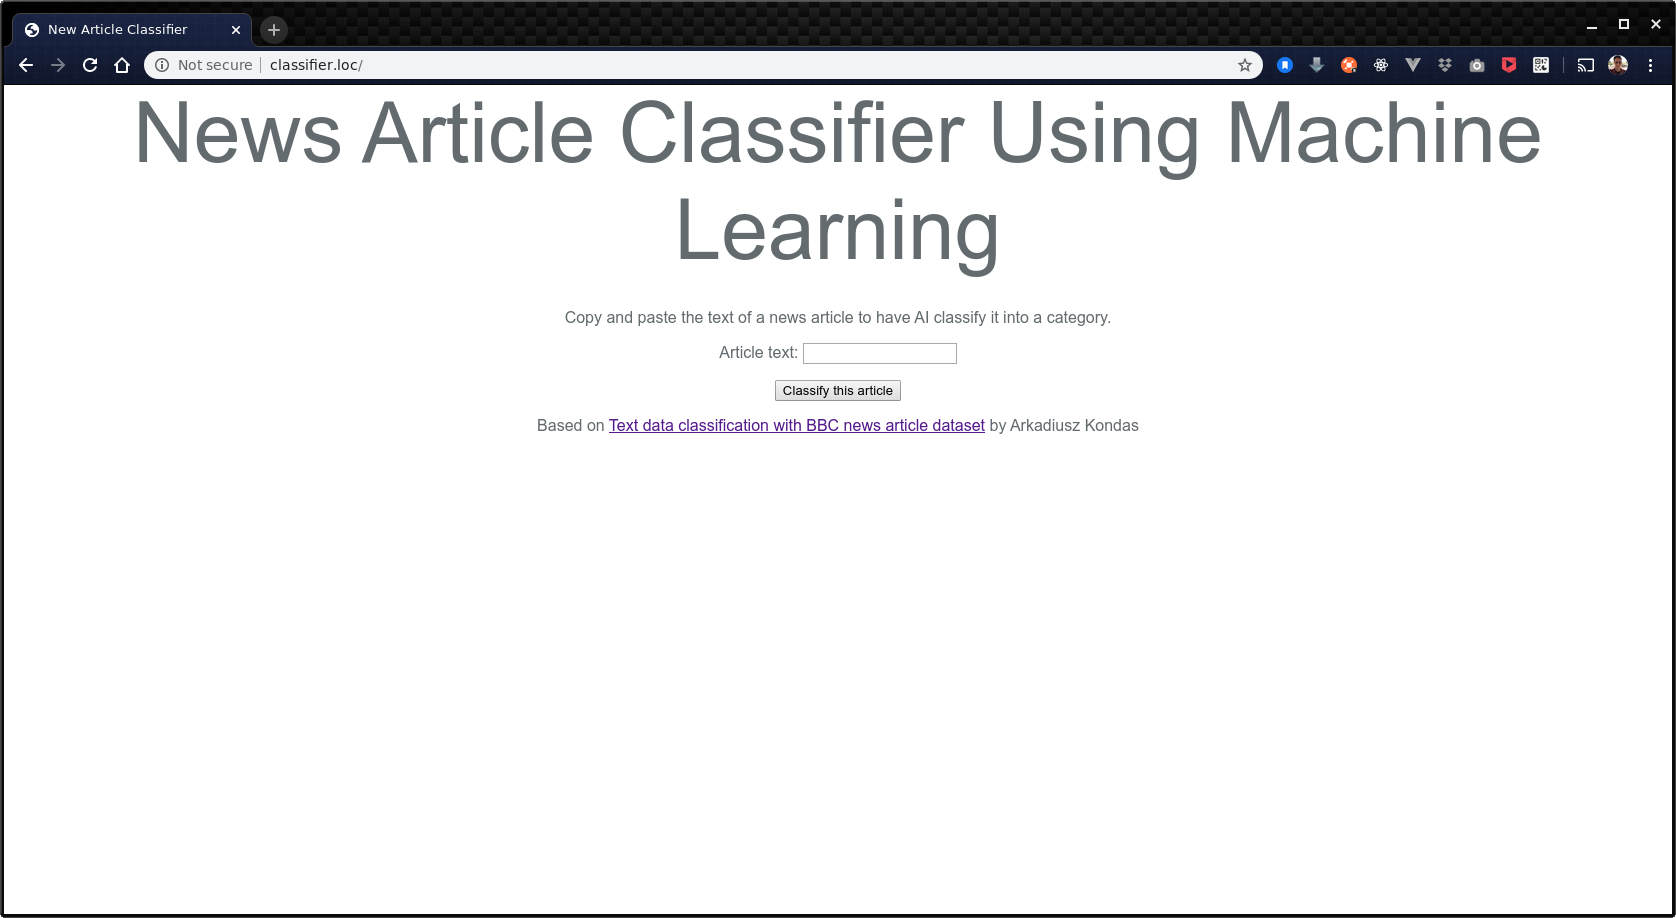
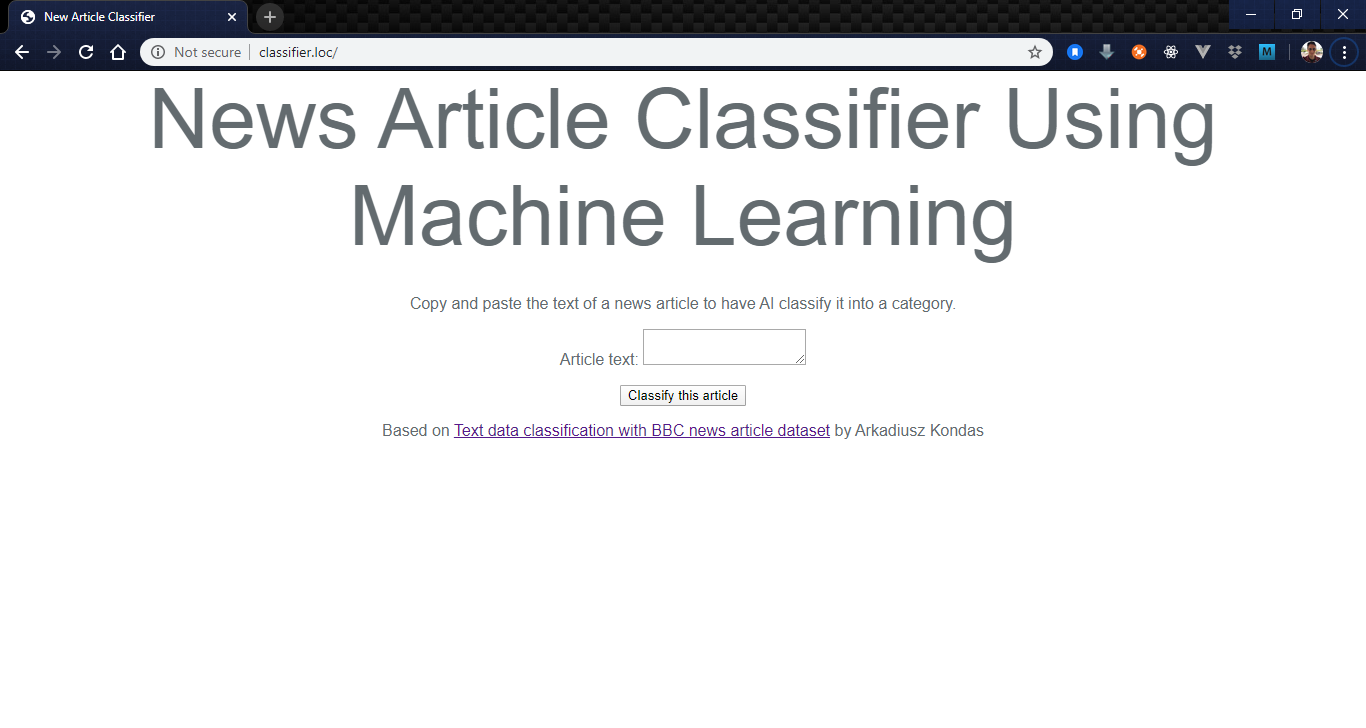
Modified classifier to use POST method for submitting text to categorize via machine learning. Updated classifier home page image with a proper textarea instead of a text input.

Changed region(s): [[0.0, 0.0, 1.0, 1.0], [0.2767, 0.5137, 0.7379, 0.6044]]

diff --git a/classifier/resources/views/classifier.blade.php b/classifier/resources/views/classifier.blade.php
@@ -18,9 +18,12 @@
             Copy and paste the text of a news article to have AI classify it into a category.
         </p>
         
-        <form method='GET' action='/classify'>
+        <form method='POST' action='/classify'>
+
+            {{ csrf_field() }}
+
             <label for='inputString'>Article text:</label>
-            <input type='textarea' rows='20' cols='50' id='articleText' name='articleText' value='{{ old('articleText', $articleText) }}'> 
+            <textarea name='articleText'>{{ old('articleText', $articleText) }}</textarea>
             <p></p>    
             @if($errors->get('articleText'))
                 <div class='error'>This field must be filled out with plain text (no images) from a news article.</div>
@@ -31,7 +34,7 @@
         <p></p>
         @if($predicted)
         <h2>Machine Learning Classification Results</h2>
-        <p>The computer classified your article as {{ $predicted }}</p>
+        <p>The computer classified your article as {{ $predicted }}.</p>
         <p></p>
         @endif
 

diff --git a/classifier/routes/web.php b/classifier/routes/web.php
@@ -14,4 +14,4 @@ use Illuminate\Support\Facades\Route;
 */
 
 Route::get('/', 'ClassifierController@index');
-Route::get('/classify', 'ClassifierController@classify');
+Route::post('/classify', 'ClassifierController@classify');
